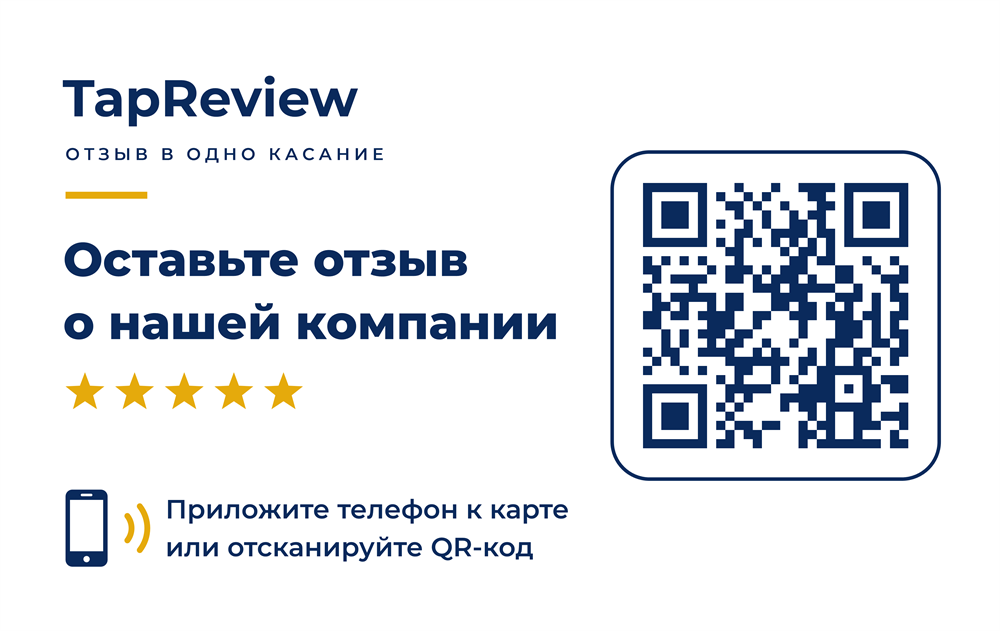
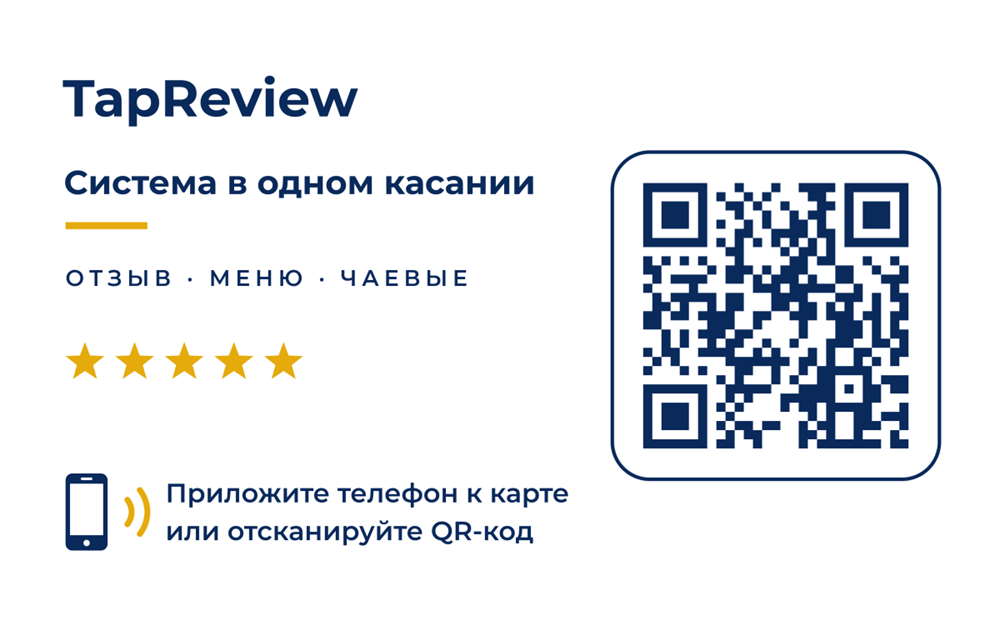
Главная: лозунг «целая система в одном касании», «Цифровой сервис для бизнеса», новая анимация телефона, новая карта и og

diff --git a/index.html b/index.html
@@ -3,8 +3,8 @@
 <head>
   <meta charset="UTF-8">
   <meta name="viewport" content="width=device-width, initial-scale=1">
-  <title>TapReview — отзывы в одно касание</title>
-  <meta name="description" content="NFC и QR-карты для отзывов на Яндекс Картах, 2ГИС и Google. Оценка гостя, сообщения недовольных — вам, колесо подарков, штампы и VIP-гости, статистика и итоги месяца.">
+  <title>TapReview — целая система в одном касании: отзывы, меню, чаевые</title>
+  <meta name="description" content="Цифровой сервис для кафе и ресторанов: одна NFC-карта на столе — отзывы на Яндекс Картах, 2ГИС и Google, меню, вызов официанта, чаевые, оплата счёта, подарки, баллы и статистика.">
   <meta name="theme-color" content="#0a2a5c">
   <link rel="canonical" href="https://tapreview.ru/">
   <meta name="yandex-verification" content="caca6cdee28712ba">
@@ -13,8 +13,8 @@
   <link rel="apple-touch-icon" href="/assets/apple-touch-icon.png">
   <meta property="og:type" content="website">
   <meta property="og:url" content="https://tapreview.ru/">
-  <meta property="og:title" content="TapReview — отзывы в одно касание">
-  <meta property="og:description" content="NFC и QR-карты для отзывов на Яндекс Картах, 2ГИС и Google — плюс подарки, штампы и статистика для заведения.">
+  <meta property="og:title" content="TapReview — целая система в одном касании">
+  <meta property="og:description" content="Цифровой сервис для бизнеса: одна NFC-карта — отзывы, меню, чаевые, оплата счёта, подарки и статистика.">
   <meta property="og:image" content="https://tapreview.ru/assets/og.png">
   <meta name="twitter:card" content="summary_large_image">
   <link rel="preload" href="/fonts/montserrat-var-cyrillic.woff2" as="font" type="font/woff2" crossorigin>
@@ -146,22 +146,18 @@
         radial-gradient(60% 55% at 85% 20%, rgba(10, 42, 92, 0.07), transparent 70%),
         radial-gradient(40% 40% at 70% 70%, rgba(229, 170, 12, 0.07), transparent 70%);
     }
-    .hero .wrap { display: grid; gap: 48px; align-items: center; }
-    .eyebrow {
-      display: inline-flex; align-items: center; gap: 10px; margin: 0 0 22px; padding: 7px 14px 7px 10px;
-      border-radius: 999px; background: #fff; box-shadow: 0 0 0 1px var(--line) inset, var(--shadow-sm);
-      color: var(--navy); font-size: 13px; font-weight: 650;
-    }
-    .eyebrow .dot { width: 8px; height: 8px; border-radius: 50%; background: var(--gold); box-shadow: 0 0 0 4px var(--gold-50); }
+    /* Сверху на всю ширину — лозунг; под ним описание сервиса и сцена с телефоном */
+    .hero-grid { display: grid; gap: 40px; align-items: center; margin-top: 30px; }
     h1 {
-      margin: 0; color: var(--ink);
-      font-size: clamp(40px, 10.5vw, 72px); line-height: 1.02; font-weight: 750; letter-spacing: -0.035em;
+      margin: 0; color: var(--ink); text-wrap: balance;
+      font-size: clamp(34px, 8.6vw, 80px); line-height: 1.04; font-weight: 750; letter-spacing: -0.035em;
     }
     h1 .accent {
       color: var(--navy); white-space: nowrap;
       background: linear-gradient(transparent 84%, rgba(229, 170, 12, 0.85) 84%, rgba(229, 170, 12, 0.85) 96%, transparent 96%);
     }
-    .lead { margin: 22px 0 32px; max-width: 540px; font-size: clamp(17px, 2.2vw, 19px); line-height: 1.6; color: var(--muted); }
+    .hero-sub { margin: 0; color: var(--navy); font-size: clamp(22px, 3vw, 28px); line-height: 1.2; font-weight: 750; letter-spacing: -0.02em; }
+    .lead { margin: 14px 0 30px; max-width: 540px; font-size: clamp(17px, 2.2vw, 19px); line-height: 1.6; color: var(--muted); }
     .lead b { color: var(--text); font-weight: 650; }
     .actions { display: flex; flex-wrap: wrap; gap: 12px; }
     .hero-meta { display: flex; flex-wrap: wrap; gap: 10px 22px; margin: 28px 0 0; padding: 0; list-style: none; font-size: 14px; font-weight: 600; color: var(--text); }
@@ -176,7 +172,7 @@
     /* ---------- Сцена: карта в акриловой подставке на стойке + телефон с NFC-касанием ----------
        Сцена рисуется в «своих» 480×540 px и масштабируется под ширину экрана (--s). */
     .visual { position: relative; display: flex; justify-content: center; min-width: 0; padding: 0 0 8px; }
-    .hero .wrap > * { min-width: 0; }
+    .hero-grid > * { min-width: 0; }
     .scene-wrap { --s: 0.68; width: 100%; height: calc(540px * var(--s)); display: flex; justify-content: center; }
     .scene { position: relative; flex: none; width: 480px; height: 540px; transform: scale(var(--s)); transform-origin: top center; }
 
@@ -237,19 +233,57 @@
     .s-idle span { display: grid; place-items: center; width: 54px; height: 54px; border-radius: 50%; background: var(--soft); color: var(--navy); }
     .s-idle svg { width: 26px; height: 26px; }
 
-    /* Анимация: телефон подносят к карте → волны NFC → открывается страница отзывов (цикл 6 с) */
-    @keyframes tap-phone {
-      0%, 12% { transform: translate(0, 0) rotate(7deg); }
-      32% { transform: translate(-78px, 36px) rotate(-12deg); }
-      36% { transform: translate(-73px, 33px) rotate(-12deg) scale(0.985); }
-      48% { transform: translate(-78px, 36px) rotate(-12deg); }
-      68%, 100% { transform: translate(0, 0) rotate(7deg); }
+    /* Страница заведения после касания: оценка + «Ещё у нас» (как настоящая /b/, без блока «Отзыв в Telegram») */
+    .s-rate {
+      position: absolute; z-index: 1; inset: 34px 0 0; display: flex; flex-direction: column; align-items: center;
+      padding: 4px 12px 0; background: #fff; text-align: center;
     }
-    @keyframes tap-idle { 0%, 34% { opacity: 1; } 42%, 92% { opacity: 0; } 100% { opacity: 1; } }
-    @keyframes tap-ring { 0%, 33% { opacity: 0; transform: scale(0.25); } 35% { opacity: 0.95; } 58%, 100% { opacity: 0; transform: scale(1.9); } }
-    .phone { animation: tap-phone 6s var(--ease) infinite; }
-    .s-idle { animation: tap-idle 6s linear infinite; }
-    .nfc i { animation: tap-ring 6s ease-out infinite; }
+    .r-name { margin: 0 0 2px; font-family: "Playfair Display", Georgia, serif; font-size: 20px; font-weight: 600; line-height: 1.15; color: var(--ink); }
+    .s-rate .s-welcome { margin-top: 5px; }
+    .r-chip { margin: 4px 0 0; padding: 3px 8px; border-radius: 99px; background: var(--soft); box-shadow: 0 0 0 1px var(--line) inset; font-size: 8px; font-weight: 650; color: var(--ink); }
+    .s-rate .s-line { margin: 8px auto; }
+    .r-waiter { margin: 0; padding: 2px 7px; border-radius: 99px; background: var(--soft); box-shadow: 0 0 0 1px var(--line) inset; font-size: 7.5px; font-weight: 700; color: var(--ink); }
+    .r-q { margin: 9px 0 1px; font-size: 14px; font-weight: 500; color: var(--ink); }
+    .r-sub { margin: 0; font-size: 8px; color: #8a91a1; }
+    .r-stars { display: flex; gap: 7px; margin: 8px 0 2px; }
+    .r-stars span { position: relative; display: block; width: 22px; height: 22px; color: #e3e7ee; }
+    .r-stars svg { display: block; width: 100%; height: 100%; }
+    .r-ends { display: flex; justify-content: space-between; width: 100%; padding: 0 10px; font-size: 7px; color: #8a91a1; }
+    .r-link { margin: 7px 0 9px; font-size: 8px; color: #5b6475; text-decoration: underline; text-underline-offset: 2px; }
+    .r-more { margin: 0 0 5px; font-size: 6.5px; font-weight: 750; letter-spacing: 0.16em; text-transform: uppercase; color: #8a91a1; }
+    .r-grid { display: grid; grid-template-columns: 1fr 1fr; gap: 5px; width: 100%; }
+    .r-grid span {
+      display: flex; align-items: center; justify-content: center; gap: 4px; padding: 7px 4px; border-radius: 9px;
+      background: var(--soft); box-shadow: 0 0 0 1px var(--line) inset; font-size: 8px; font-weight: 650; color: var(--ink); white-space: nowrap;
+    }
+    .r-grid svg { width: 10px; height: 10px; flex: none; color: var(--gold-600); }
+    /* Палец нажимает пятую звезду */
+    .r-tap { position: absolute; left: 50%; top: 50%; width: 30px; height: 30px; margin: -15px 0 0 -15px; border-radius: 50%; background: rgba(10, 42, 92, 0.2); opacity: 0; }
+
+    /* Анимация (цикл 10 с): телефон подносят к карте → волны NFC → страница заведения →
+       гость жмёт 5 звёзд → «Спасибо за высокую оценку» с кнопками карт и подарком */
+    @keyframes tap-phone {
+      0%, 7% { transform: translate(0, 0) rotate(7deg); }
+      19% { transform: translate(-78px, 36px) rotate(-12deg); }
+      21.5% { transform: translate(-73px, 33px) rotate(-12deg) scale(0.985); }
+      29% { transform: translate(-78px, 36px) rotate(-12deg); }
+      41%, 100% { transform: translate(0, 0) rotate(7deg); }
+    }
+    @keyframes tap-idle { 0%, 20% { opacity: 1; } 25%, 96% { opacity: 0; } 100% { opacity: 1; } }
+    @keyframes tap-ring { 0%, 19.5% { opacity: 0; transform: scale(0.25); } 21% { opacity: 0.95; } 35%, 100% { opacity: 0; transform: scale(1.9); } }
+    @keyframes tap-rate { 0%, 68% { opacity: 1; } 73%, 96% { opacity: 0; } 100% { opacity: 1; } }
+    @keyframes tap-star { 0%, 55% { color: #e3e7ee; } 56.5%, 97% { color: var(--gold); } 100% { color: #e3e7ee; } }
+    @keyframes tap-touch { 0%, 51% { opacity: 0; transform: scale(0.4); } 53.5% { opacity: 1; transform: scale(0.85); } 60%, 100% { opacity: 0; transform: scale(1.5); } }
+    .phone { animation: tap-phone 10s var(--ease) infinite; }
+    .s-idle { animation: tap-idle 10s linear infinite; }
+    .nfc i { animation: tap-ring 10s ease-out infinite; }
+    .s-rate { animation: tap-rate 10s linear infinite; }
+    .r-stars span { animation: tap-star 10s linear infinite; }
+    .r-stars span:nth-child(2) { animation-delay: 0.06s; }
+    .r-stars span:nth-child(3) { animation-delay: 0.12s; }
+    .r-stars span:nth-child(4) { animation-delay: 0.18s; }
+    .r-stars span:nth-child(5) { animation-delay: 0.24s; }
+    .r-tap { animation: tap-touch 10s ease-out infinite; }
     .nfc i:nth-child(2) { animation-delay: 0.18s; }
     .nfc i:nth-child(3) { animation-delay: 0.36s; }
     /* Боковые кнопки */
@@ -753,9 +787,9 @@
     }
     @media (min-width: 980px) {
       .nav { display: flex; }
-      .hero { padding: 64px 0 96px; }
-      .hero .wrap { grid-template-columns: 1.08fr 0.92fr; gap: 40px; }
-      .scene-wrap { --s: 1.08; }
+      .hero { padding: 56px 0 80px; }
+      .hero-grid { grid-template-columns: 1.08fr 0.92fr; gap: 40px; margin-top: 8px; }
+      .scene-wrap { --s: 1; }
       section { padding: 112px 0; }
       .section-head { margin-bottom: 56px; }
       .benefits { grid-template-columns: repeat(3, 1fr); }
@@ -845,27 +879,26 @@
     <!-- ---------- первый экран ---------- -->
     <div class="hero">
       <div class="wrap">
+        <p class="ref-banner" id="ref-banner" hidden>🎁 Вы пришли по приглашению — <b>первый месяц подписки в подарок</b></p>
+        <h1 class="reveal">TapReview — целая система <span class="accent">в одном касании</span></h1>
+      </div>
+      <div class="wrap hero-grid">
         <div>
-          <p class="ref-banner" id="ref-banner" hidden>🎁 Вы пришли по приглашению — <b>первый месяц подписки в подарок</b></p>
-          <p class="eyebrow reveal"><span class="dot" aria-hidden="true"></span>NFC-карта: отзывы, подарки, сервис</p>
-          <h1 class="reveal" style="--d:.05s">Отзывы <span class="accent">в одно</span> касание</h1>
+          <p class="hero-sub reveal" style="--d:.05s">Цифровой сервис для бизнеса</p>
           <p class="lead reveal" style="--d:.1s">
-            Гость прикладывает телефон к карте и ставит оценку. Довольные сразу попадают в форму отзыва на
-            <b>Яндекс Картах, 2ГИС или Google</b>, а недовольные пишут <b>вам</b> — пока они ещё в зале.
-            А ещё карта выдаёт подарки, копит баллы и зовёт официанта.
+            Одна NFC-карта на столе. Гость прикладывает телефон — и оставляет отзыв, открывает меню, зовёт официанта,
+            оплачивает счёт и благодарит чаевыми. Довольные попадают в форму отзыва на <b>Яндекс Картах, 2ГИС и Google</b>,
+            недовольные пишут <b>вам</b>. Подарки и баллы возвращают гостей снова.
           </p>
           <div class="actions reveal" style="--d:.15s">
             <a class="btn btn-primary" href="/order/">Подключить</a>
             <a class="btn btn-gold" href="/b/yarik">Посмотреть пример</a>
           </div>
-          <!-- ЦЕНЫ (прайс 4.11.2026): подписка за заведение Start 490 / Plus 990 / Pro 1 990 ₽/мес, подключение 1 490 / 3 490 / 5 990 ₽
-               с пакетом 5 / 20 / 50 карт, карта сверх — 199 ₽, модули к Plus по 490 ₽, со 2-й точки −20%, год = 10 мес, первый месяц бесплатно.
-               Early Partner: подключение бесплатно с 5 картами (сверх — 150 ₽) и дизайном, 490 ₽/мес полгода. Меняются здесь, в «Цены», order/index.html, src/tariffs.js и в оферте (п. 3.3–3.4) -->
-          <p class="hero-price reveal" style="--d:.2s">Первым 20 заведениям — <b>бесплатное подключение</b> с 5 картами и 490&nbsp;₽/мес · <b>первый месяц бесплатно</b> · <a href="/order/">посчитать стоимость</a></p>
-          <ul class="hero-meta reveal" style="--d:.25s">
-            <li><svg aria-hidden="true"><use href="#i-check"/></svg>Без приложений</li>
-            <li><svg aria-hidden="true"><use href="#i-check"/></svg>Без сбора телефонов гостей</li>
-            <li><svg aria-hidden="true"><use href="#i-check"/></svg>Статистика и отчёты в Telegram</li>
+          <!-- ЦЕНЫ: сейчас подключаем бесплатно, строку с ценами убрали по просьбе партнёра (16.11.2026).
+               Прайс по-прежнему в order/index.html, src/tariffs.js и в оферте (п. 3.3–3.4) -->
+          <ul class="hero-meta reveal" style="--d:.2s">
+            <li><svg aria-hidden="true"><use href="#i-check"/></svg>Без приложения</li>
+            <li><svg aria-hidden="true"><use href="#i-check"/></svg>Статистика и отчёты</li>
           </ul>
         </div>
 
@@ -884,6 +917,26 @@
             <div class="screen">
               <div class="s-island"></div>
               <div class="s-idle"><span><svg><use href="#i-nfc"/></svg></span>Поднесите к карте</div>
+              <div class="s-rate">
+                <p class="r-name">Утро</p>
+                <p class="s-tag">Кофейня</p>
+                <p class="s-welcome">С возвращением! 3-й раз 👋</p>
+                <p class="r-chip">🎁 Мои штампы и подарки</p>
+                <div class="s-line"></div>
+                <p class="r-waiter">Вас обслуживает: Анна</p>
+                <p class="r-q">Как вам у нас?</p>
+                <p class="r-sub">Оцените визит — это одно касание.</p>
+                <div class="r-stars"><span><svg><use href="#i-star"/></svg></span><span><svg><use href="#i-star"/></svg></span><span><svg><use href="#i-star"/></svg></span><span><svg><use href="#i-star"/></svg></span><span><svg><use href="#i-star"/></svg><i class="r-tap"></i></span></div>
+                <div class="r-ends"><span>Плохо</span><span>Отлично</span></div>
+                <p class="r-link">Сразу оставить отзыв на картах →</p>
+                <p class="r-more">Ещё у нас</p>
+                <div class="r-grid">
+                  <span><svg viewBox="0 0 24 24"><circle cx="12" cy="12" r="9.5" fill="none" stroke="currentColor" stroke-width="1.8"/><path d="M10 17V7.5h3.2a2.6 2.6 0 0 1 0 5.2H8.5M8.5 15h5" fill="none" stroke="currentColor" stroke-width="1.8" stroke-linecap="round"/></svg>Чаевые</span>
+                  <span><svg viewBox="0 0 24 24"><path d="M7 3v8M5 3v5a2 2 0 0 0 4 0V3M7 11v10M17 21V3c-2 1-3.5 4-3.5 8h3.5" fill="none" stroke="currentColor" stroke-width="1.8" stroke-linecap="round" stroke-linejoin="round"/></svg>Меню</span>
+                  <span><svg viewBox="0 0 24 24"><circle cx="12" cy="12" r="9.5" fill="none" stroke="currentColor" stroke-width="1.8"/><path d="M2.5 12h19M12 2.5c3 3.2 3 15.8 0 19M12 2.5c-3 3.2-3 15.8 0 19" fill="none" stroke="currentColor" stroke-width="1.8"/></svg>Наш сайт</span>
+                  <span><svg viewBox="0 0 24 24"><rect x="2.5" y="5" width="19" height="14" rx="2.5" fill="none" stroke="currentColor" stroke-width="1.8"/><path d="M2.5 10h19M6 15h4" fill="none" stroke="currentColor" stroke-width="1.8" stroke-linecap="round"/></svg>Оплатить счёт</span>
+                </div>
+              </div>
               <div class="s-status">
                 <span>9:41</span>
                 <span class="s-icons">
@@ -910,7 +963,7 @@
           </div>
           </div>
          </div>
-          <div class="tap-chip"><span><svg><use href="#i-nfc"/></svg></span>Приложили — и отзыв</div>
+          <div class="tap-chip"><span><svg><use href="#i-nfc"/></svg></span>Одно касание — отзыв, меню, чаевые</div>
         </div>
       </div>
     </div>
@@ -930,24 +983,24 @@
       <div class="wrap">
         <div class="section-head reveal">
           <p class="kicker">Как это работает</p>
-          <h2>Три шага — и гость уже пишет отзыв</h2>
-          <p>Не нужно искать заведение на карте, скачивать приложения или вводить ссылку.</p>
+          <h2>Одно касание — и всё под рукой</h2>
+          <p>Гостю не нужно скачивать приложение, искать заведение на карте или ловить взгляд официанта. Всё открывается с одной карты на столе.</p>
         </div>
         <ol class="steps">
           <li class="step reveal">
             <div class="step-num"><b>1</b>Касание</div>
             <h3>Прикладывает телефон</h3>
-            <p>Или наводит камеру на QR-код. Открывается страница вашего заведения — на iPhone и Android, без приложений.</p>
+            <p>Или наводит камеру на QR-код. Открывается страница вашего заведения — на iPhone и Android, без приложения.</p>
           </li>
           <li class="step reveal" style="--d:.08s">
-            <div class="step-num"><b>2</b>Оценка</div>
-            <h3>Ставит оценку от 1 до 5</h3>
-            <p>Одно касание по звёздам. Если что-то понравилось особенно — отмечает: кухня, обслуживание, атмосфера.</p>
+            <div class="step-num"><b>2</b>Всё на одной странице</div>
+            <h3>Делает, что нужно</h3>
+            <p>Смотрит меню, зовёт официанта, оплачивает счёт, оставляет чаевые, забирает подарок и копит баллы.</p>
           </li>
           <li class="step reveal" style="--d:.16s">
-            <div class="step-num"><b>3</b>Отзыв или сообщение вам</div>
+            <div class="step-num"><b>3</b>Отзыв</div>
             <h3>4–5 — на карты, 1–3 — вам</h3>
-            <p>Довольный гость сразу открывает форму отзыва на Яндекс Картах, в 2ГИС или Google. Недовольный пишет вам в Telegram — и может попросить перезвонить.</p>
+            <p>Довольный гость сразу открывает форму отзыва на Яндекс Картах, в 2ГИС или Google. Недовольный пишет вам в Telegram — пока ещё в зале.</p>
           </li>
         </ol>
         <p class="how-note reveal">Кнопки площадок доступны при любой оценке, а подарок не зависит от отзыва — так требуют правила Яндекс Карт и 2ГИС. Мы не скрываем негатив, а даём вам шанс исправить ситуацию первым.</p>
@@ -1247,7 +1300,7 @@
 
   <footer class="footer">
     <div class="wrap">
-      <span>© 2026 TapReview · Отзывы в одно касание</span>
+      <span>© 2026 TapReview · Целая система в одном касании</span>
       <nav aria-label="Контакты">
         <a href="https://t.me/tapreview_ru" target="_blank" rel="noopener">Telegram @tapreview_ru ↗</a>
         <a href="https://t.me/tapreviewru" target="_blank" rel="noopener">Канал ↗</a>

diff --git a/katalog/index.html b/katalog/index.html
@@ -304,7 +304,7 @@
 
   <footer class="footer">
     <div class="wrap">
-      <span>© 2026 TapReview · Отзывы в одно касание</span>
+      <span>© 2026 TapReview · Целая система в одном касании</span>
       <nav aria-label="Ссылки">
         <a href="/">Главная</a>
         <a href="https://t.me/tapreview_ru" target="_blank" rel="noopener">Telegram @tapreview_ru ↗</a>

diff --git a/vladeltsam/index.html b/vladeltsam/index.html
@@ -161,7 +161,7 @@
 
   <footer class="footer">
     <div class="wrap">
-      <span>© 2026 TapReview · Отзывы в одно касание</span>
+      <span>© 2026 TapReview · Целая система в одном касании</span>
       <span><a href="/">Главная</a> · <a href="/oferta/">Оферта</a> · <a href="/privacy/">Политика</a></span>
     </div>
   </footer>

diff --git a/oferta/index.html b/oferta/index.html
@@ -388,7 +388,7 @@
 
   <footer class="footer">
     <div class="wrap">
-      <span>© 2026 TapReview · Отзывы в одно касание</span>
+      <span>© 2026 TapReview · Целая система в одном касании</span>
       <a href="/">На главную</a>
     </div>
   </footer>
